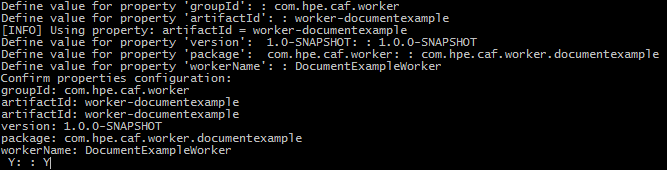
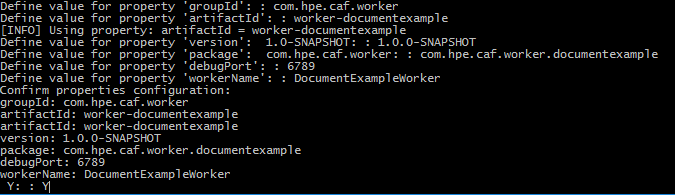
CAF-2709: Updated for Ease of Deployment (#2)

Changed region(s): [[0.0, 0.0, 1.0, 1.0]]

diff --git a/worker-document-archetype/documentation/WorkerArchetypeUsage.md b/worker-document-archetype/documentation/WorkerArchetypeUsage.md
@@ -51,6 +51,7 @@ A new Document Worker aggregator project generated from the Document Worker Arch
 - Version
 - Package
 - WorkerName
+- DebugPort
 
 The following subsections provide instructions on how you can use Maven Command Line Interface (CLI), IntelliJ Integrated Development
 Environment (IDE) or NetBeans IDE to create the components of a Document Worker from the Document Worker Archetype.
@@ -67,8 +68,8 @@ Generate the new Document Worker Aggregator from the `worker-document-archetype`
 <pre>mvn archetype:generate -DarchetypeVersion=WORKER-DOCUMENT-ARCHETYPE-VERSION -DarchetypeArtifactId=worker-document-archetype -DarchetypeGroupId=com.github.cafdataprocessing</pre>
 
 The CLI will prompt you for artifactId, groupId, version (default suggestion is 1.0-SNAPSHOT), package (default suggestion is the
-groupId, you should however adjust this to include the worker's purpose) and workerName properties required for the new Document Worker
-project. See Figure 1.
+groupId, you should however adjust this to include the worker's purpose), workerName and DebugPort properties required for the new
+Document Worker project. See Figure 1.
 
 ![Generate Example Worker Shared Module from CLI](images/CLIGenerateExample.png)
 *Figure 1*
@@ -103,6 +104,7 @@ Generate the new Document Worker Aggregator from the `worker-document-archetype`
 - Add each of the following properties (Alt+Insert) and replace the example values with your project specific values > Click 'Next':
 	- package : com.hpe.caf.worker.documentexample
 	- workerName : DocumentExampleWorker
+	- debugPort: 5678
 - Name the Project after its ArtifactId and specify the location of the project > Click 'Finish', e.g:
 	- Project name : worker-documentexample
 	- Project location : C:\MyWorkerProjects\worker-documentexample
@@ -127,14 +129,15 @@ Generate the new Document Worker Aggregator from the `worker-document-archetype`
 	- ArtifactId : worker-document-archetype
 	- Version : *WORKER-DOCUMENT-ARCHETYPE-VERSION*
 	- Click 'Next >'
-- Enter Project Name, Project Location, GroupId, Version and Package of your Worker project, e.g:
+- Enter Project Name, Project Location, GroupId, Version, Package and debugPort of your Worker project, e.g:
 	- Project Name : worker-documentexample
 	- Project Location : C:\MyWorkerProjects
 	- GroupId : com.hpe.caf.worker
 	- Version : 1.0.0-SNAPSHOT
 	- Package : com.hpe.caf.worker.documentexample
-- Set workerName property > Click 'Finish', e.g:
+- Set workerName and debugPort properties > Click 'Finish', e.g:
 	- workerName : DocumentExampleWorker
+	- debugPort: 5678
 
 The foundations for your new Document Worker is now set up. The generated project will contain the following submodules:
 
@@ -157,6 +160,26 @@ The default Document Worker configuration file checks for values as below;
 | threads  |  `CAF_WORKER_THREADS` | 1  |
 | maxBatchSize  |  `CAF_WORKER_MAX_BATCH_SIZE` | 2  |
 | maxBatchTime  |  `CAF_WORKER_MAX_BATCH_TIME` | 5000  |
+
+## Deployment
+
+The Document Worker Archetype will generate a `deployment` folder as part of the new project.
+
+This folder contains the following files:
+- docker-compose-&lt;workername&gt;.yml
+    - This file contains the service which can be added to the `docker-compose.yml` file in [data-processing-service-deploy](https://github.hpe.com/caf/data-processing-service-deploy). Documentation on using the `docker-compose.yml` file can be found at https://pages.github.hpe.com/caf/data-processing-service/pages/en-us/Getting-Started.
+- docker-compose-&lt;workername&gt;-debug.yml
+    - A compose file that adds additional debugging capability to allow the worker to be debugged. It exposes a port so the worker may be queried externally and increases the log level.
+- add-worker-action.json
+    - This is a sample action which can be used when updating the default workflow through Processing API. The documentation on creating actions for the default workflow caf be found [here](https://pages.github.hpe.com/caf/data-processing-service/pages/en-us/Getting-Started#creating-the-action).
+    - The order field is set to 1100, a higher value than the existing actions on the processing rule, so that the action will occur after all currently defined actions on the processing rule.
+    - The settings property contains the action type specific properties, here being the name of the worker to use, and the queue that worker is listening to.
+    - The `actionConditions` defines the condition 'Reference Lookup'. This condition means the worker will only process documents which contain a field named 'reference'.
+
+The generated docker compose files, `docker-compose-<workername>.yml`, and `docker-compose-<workername>-debug.yml`, should be used along with the `docker-compose.yml` in [data-processing-service-deploy](https://github.hpe.com/caf/data-processing-service-deploy) by using the following command:
+```
+docker-compose -f docker-compose.yml -f docker-compose-<workername>.yml -f docker-compose-<workername>-debug.yml up -d
+```
 
 ## Further Information
 
